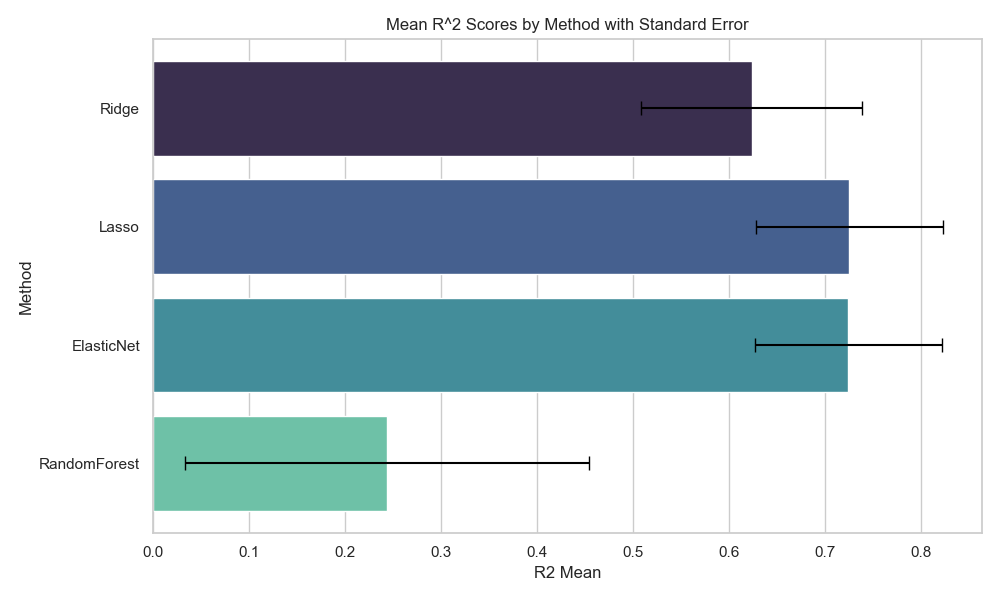
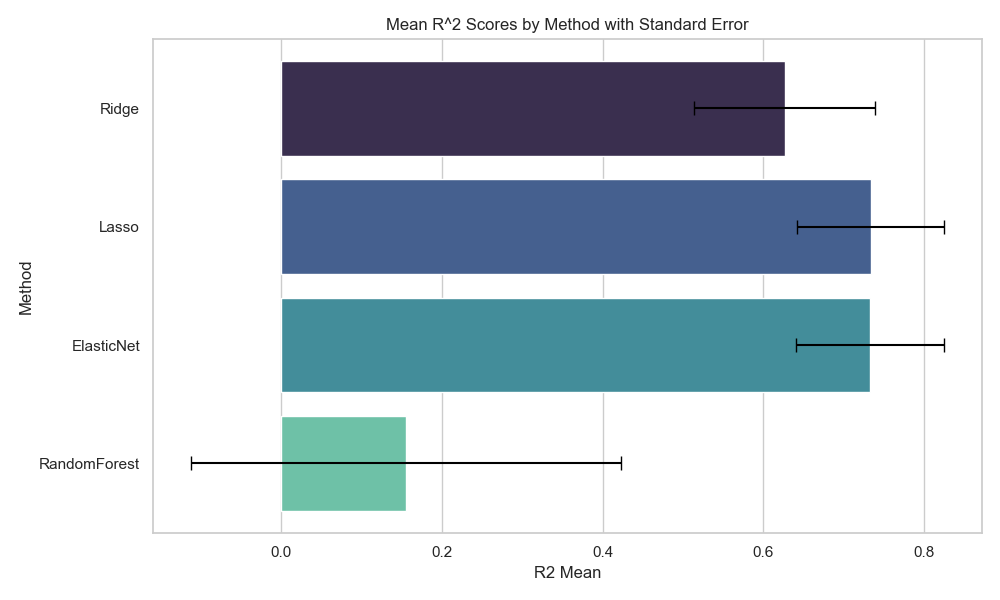
running a test with adding a 'missing' category to the categorical variables instead of most frequent imputation

diff --git a/src/visualize.py b/src/visualize.py
@@ -82,7 +82,32 @@ def visualize_coefficients(results):
             plt.ylabel('Model')
             plt.savefig(f'../figures/{method}_coefficients.png')
 
+def visualize_c1():
+    data = load_data()
+
+    data.replace(to_replace=r'^\s*NaN\s*$', value=np.nan, regex=True, inplace=True)
+    sns.set_theme(style='darkgrid', palette='pastel', font='sans-serif', font_scale=1, color_codes=True, rc=None)
+
+    # Create a barplot so that categories are on the x-axis and counts are on the y-axis
+    plt.figure(figsize=(8, 8))
+    sns.countplot(data[' C_ 1'], color='black')
+    plt.title('Distribution of C_1')
+    plt.savefig('../figures/c1_histogram_nan.png')
+
+    # Impute missing values with most frequent
+
+
+    data[' C_ 1'] = data[' C_ 1'].fillna(data[' C_ 1'].mode()[0])
+
+    # Create a histogram of C_1
+    plt.figure(figsize=(8, 8))
+    sns.countplot(data[' C_ 1'], color='black')
+    plt.title('Distribution of C_1 after imputation')
+    plt.savefig('../figures/c1_histogram_imputed.png')
+
+
 if __name__ == '__main__':
     data = load_data()
     X, y, preprocessor = preprocess(data)
     visualize_correlation_matrix(X)
+    visualize_c1()

diff --git a/src/preprocess.py b/src/preprocess.py
@@ -23,6 +23,12 @@ def preprocess(data: pd.DataFrame):
     X = data.drop(['y', ' C_ 2'], axis=1)
     y = data['y']
 
+    # Replace the categorical missing values with a new category 'missing'
+    X[' C_ 1'] = X[' C_ 1'].fillna('missing')
+    X[' C_ 3'] = X[' C_ 3'].fillna('missing')
+    X[' C_ 4'] = X[' C_ 4'].fillna('missing')
+    X[' C_ 5'] = X[' C_ 5'].fillna('missing')
+
     # make sure y is a dataframe
 
     # Define numerical and categorical features
@@ -36,7 +42,7 @@ def preprocess(data: pd.DataFrame):
 
     # Define preprocessing for categorical features: imputation + one-hot encoding
     categorical_transformer = Pipeline(steps=[
-        ('imputer', SimpleImputer(strategy='most_frequent')),
+        #('imputer', SimpleImputer(strategy='most_frequent')),
         ('onehot', OneHotEncoder(handle_unknown='ignore'))])
 
     # Bundle preprocessing for numerical and categorical data
